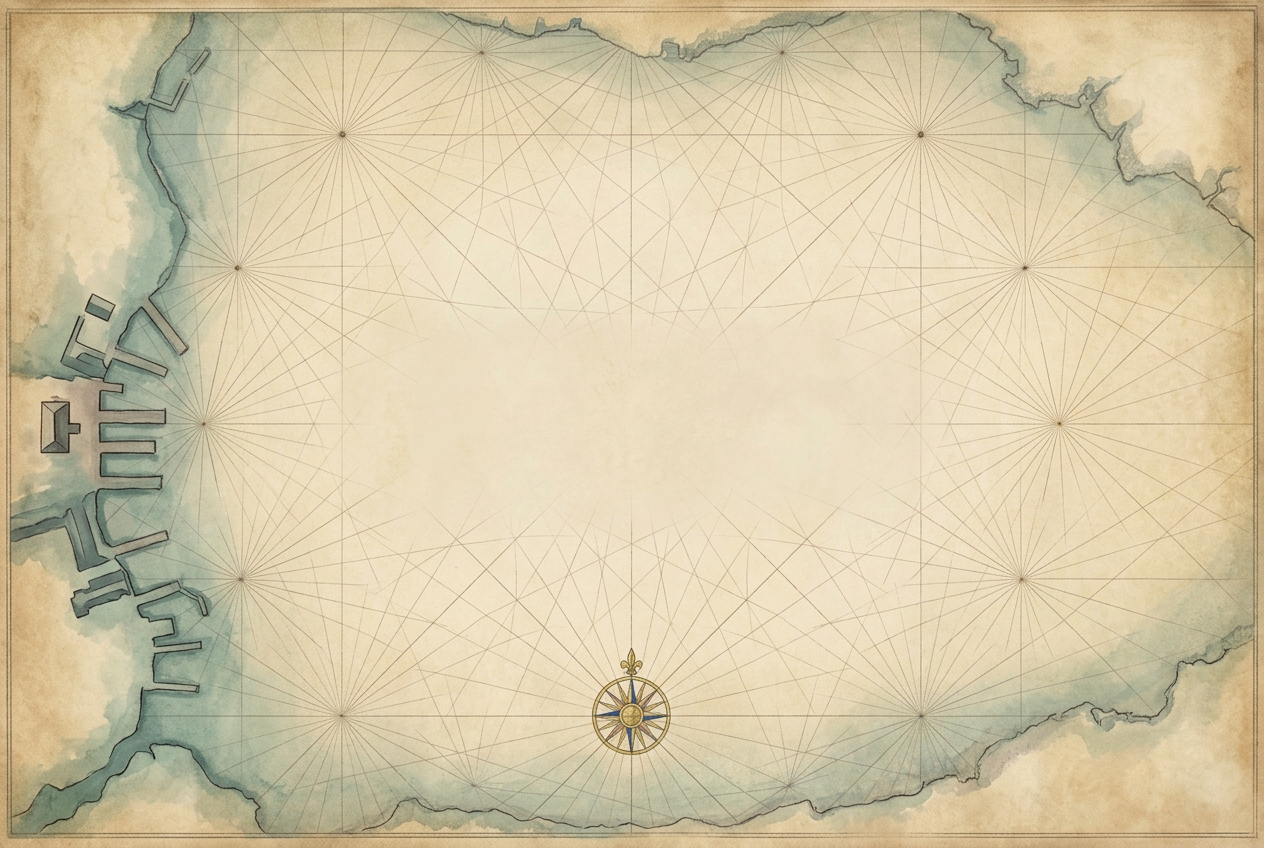
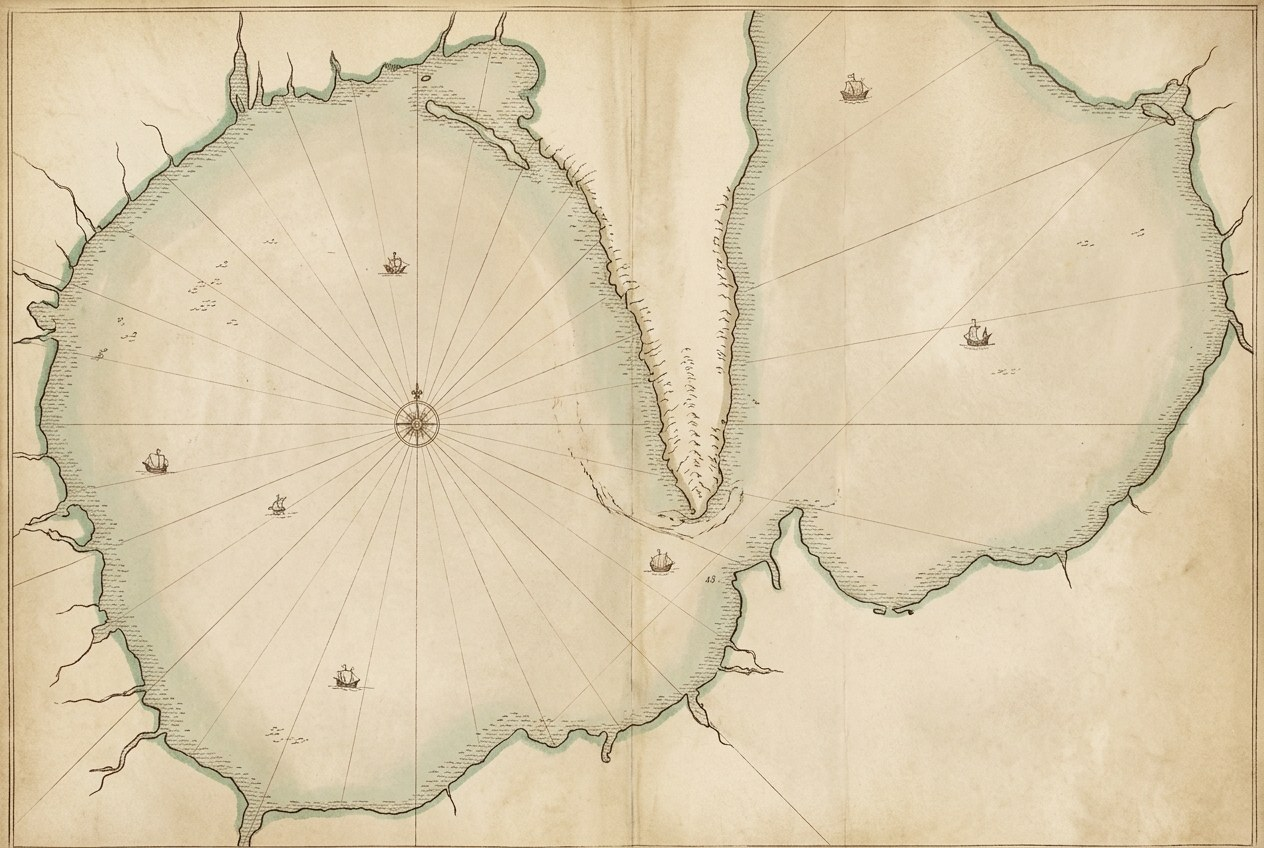
Round 16 — the optionals land: station-harbor re-cut (pick B — hull on stocks + the post die, the coin stack retires) and the v8 sea chart (pick C — the wordless two-seas portolan) both replaced in place; the naming-gets-lettered gotcha recorded
Claude-Session: https://claude.ai/code/session_01KnTdHoMxU6ZSwvS8XEB7sL

diff --git a/art/PROMPTS.md b/art/PROMPTS.md
@@ -534,10 +534,17 @@ went through the deframe + band gates (frames auto-trimmed on roughly half). The
 3. **`bonus-load.png` re-cut — the OPEN pick:** LOAD becomes **the medieval treadwheel harbor
    crane** lifting a cask (designer-ruled 2026-09-06 — cart and load may not share art). The
    winner replaces `bonus-load.png` IN PLACE so every `package-plus` load site updates; candidates out.
-4. *(Optional)* **`station-harbor.png` re-cut** — the commission is FREE for a Cog now; the coin stack on the current icon reads as a purchase. A hull on the stocks with a post die beside it would say "commission, then post".
+4. **`station-harbor.png` re-cut — LANDED (pick B, 2026-09-06):** the hull on launch stocks
+   with the bone post die beside it — "commission, then post"; the coin stack retires (a Cog
+   commissions free). Replaced in place; every `LU('ship')` site swapped.
 
-### 5 · Boards (both playable as they stand)
-- **The sea board** rides `seamap.png` (the portolan chart, Hamburg's wharf works at the left edge) under parchment panels — playable as is. *(Optional)* a v8-specific chart: the same portolan grammar with the North Sea on the left half and the Baltic on the right, the Sound and the Skagerrak suggested as straits, no lettering.
+### 5 · Boards
+- **The sea board** rides `seamap.png` — **the v8 chart LANDED (pick C, 2026-09-06)**: the
+  wordless two-seas portolan (a sea per half, the peninsula between, the straits suggested),
+  replaced in place under both surfaces (the print sheet's `sb-art`, the app's `.seamap`
+  wash). The v7 chart (Hamburg's wharf works at the left edge) lives in git history. Gotcha
+  re-proved on this pass: name a strait and the model letters it — describe the geography
+  namelessly (see `ICONS.md` Round 16).
 - **The Wharf board** is unchanged (`wharf-board.png`).
 
 ### 6 · Nothing wanted

diff --git a/art/ICONS.md b/art/ICONS.md
@@ -167,6 +167,17 @@
 > `bonus-load.png` in place — every `package-plus` load site swapped at once, and cart/load
 > read apart at every size.
 
+> **Round 16 (designer, 2026-09-06): the optionals land.** **`station-harbor.png` re-cut
+> (pick B)** — the fresh hull on launch stocks with the bone POST DIE standing beside it; the
+> Round-3 coin stack RETIRES (a Cog commissions FREE in v8 — the icon now says "commission,
+> then post", the Harbor's printed verb pair). Replaced in place: every `LU('ship')` site
+> swapped — the Wharf board's Harbor primary (print + app), the aid's Harbor line, the
+> Shipmaster's card, the app's load/commission prompts. **And the v8 sea chart (pick C)**
+> replaced `seamap.png` in place — the wordless two-seas portolan under both boards. Batch
+> lesson RE-PROVED: naming a strait gets it LETTERED onto the water (Skagerrak · Kattegat ·
+> Baltic Sea baked across three renders) — describe the geography namelessly; a "no lettering"
+> clause alone does not hold against proper nouns in the subject line.
+
 > **Scope ruling (designer, 2026-08-03, mid-program):** §4 building crests, §5 specialist
 > crests and §6 reference glyphs are **SKIPPED** — those surfaces keep their Lucide glyphs
 > (the tiles already carry full-bleed art). **ADDED: one icon per Kontor** — a city crest
